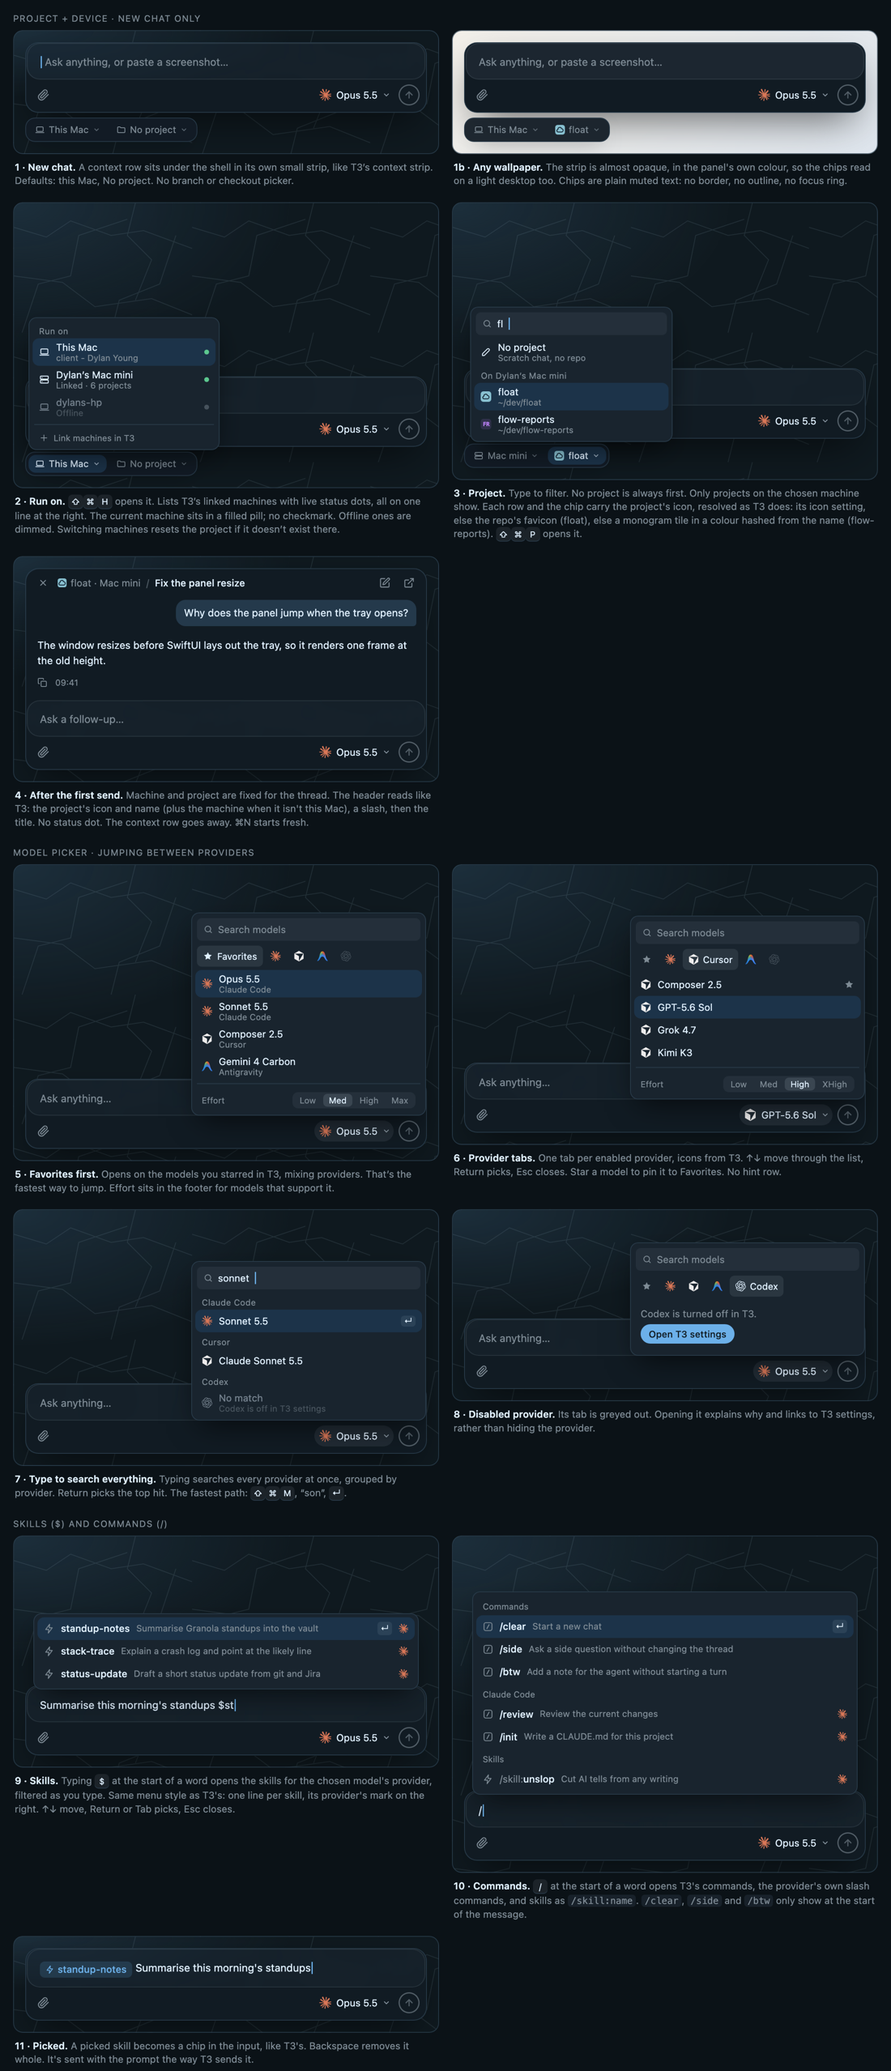
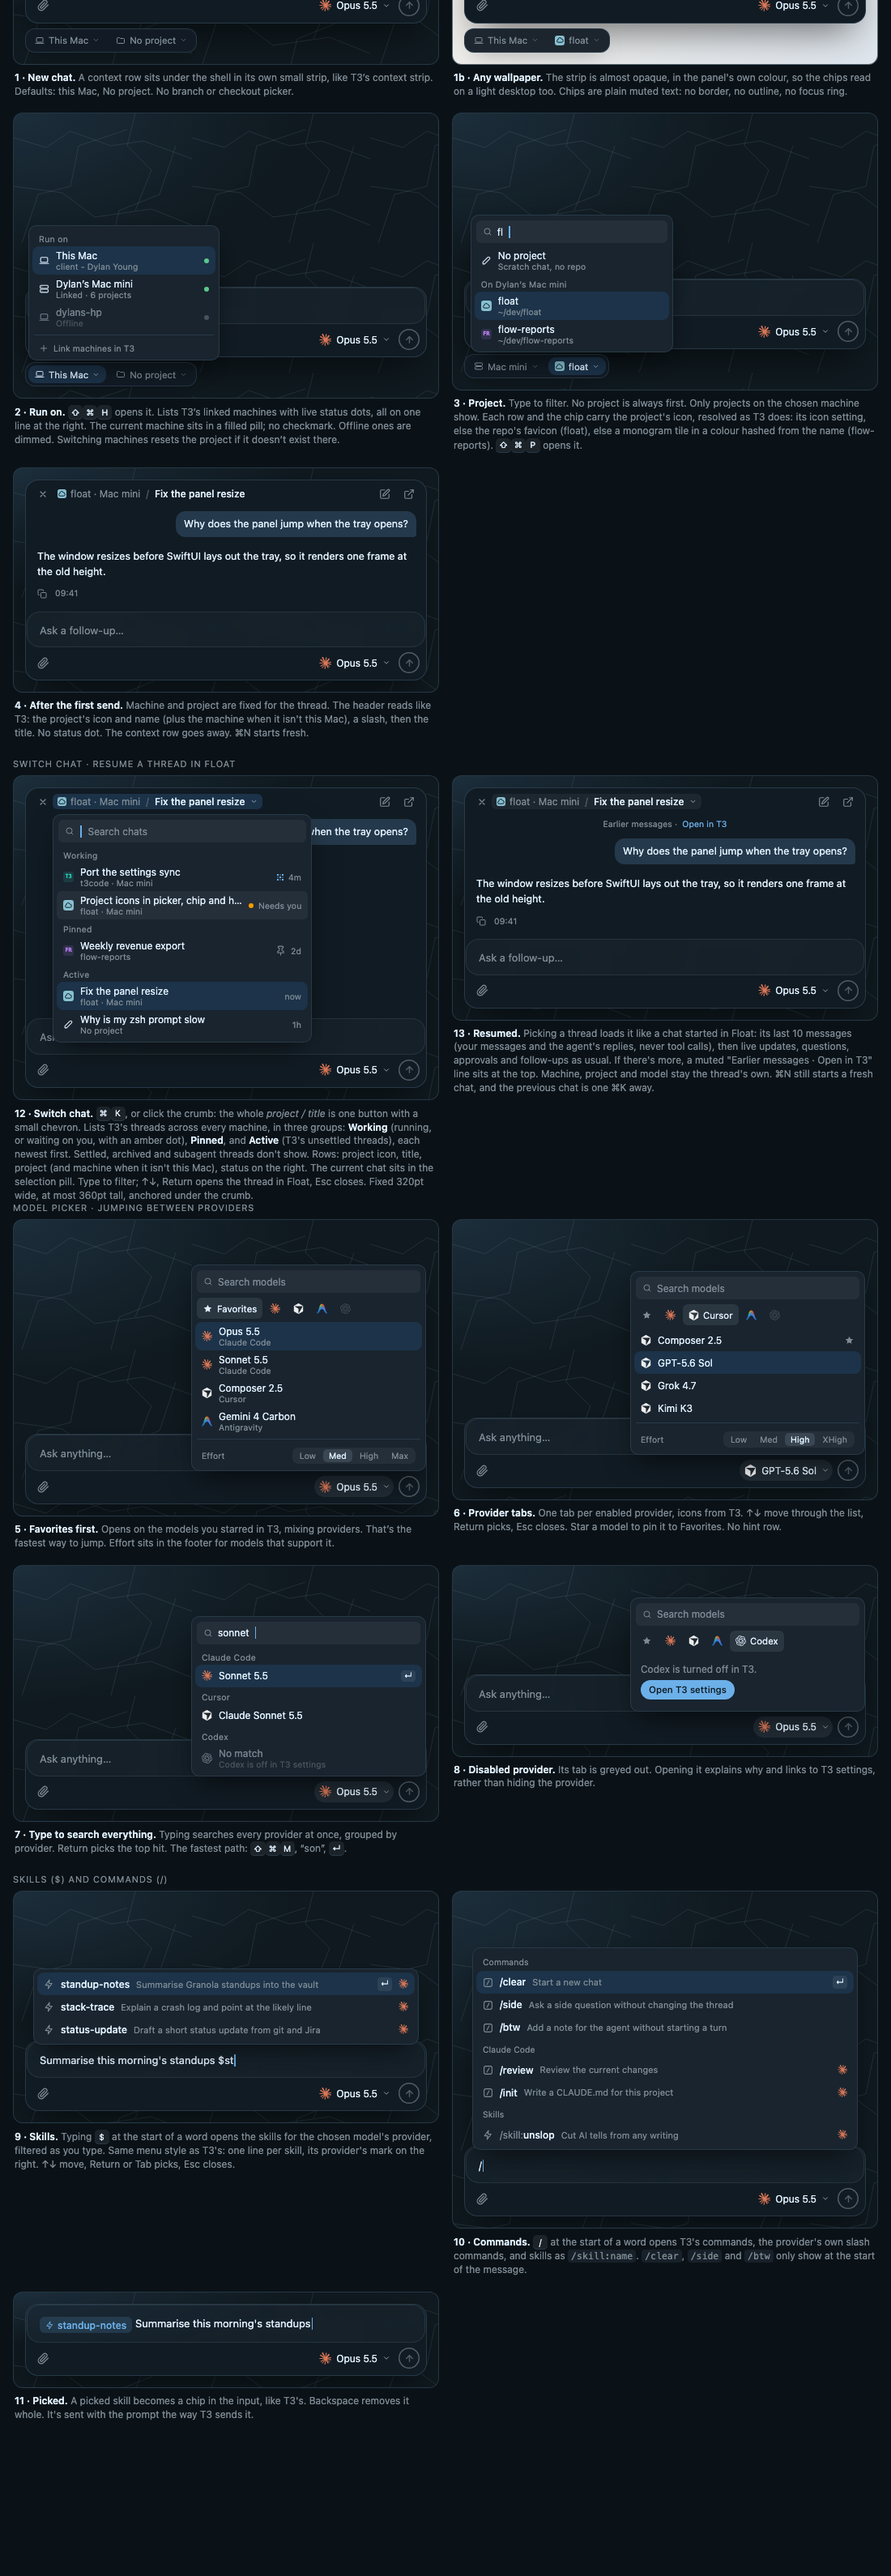
design(switcher): resume pinned, working and active threads from the header crumb

Changed region(s): [[0.0, 0.0, 0.9891, 1.0], [0.4636, 0.6488, 0.9891, 0.9269], [0.68, 0.309, 0.9582, 0.3399]]

diff --git a/design/float-pickers.html b/design/float-pickers.html
@@ -192,6 +192,17 @@ code{font-family:var(--font-mono);font-size:11.5px;background:var(--code-backgro
 .pop .ft{display:flex;align-items:center;gap:6px;padding:6px 8px 4px;font-size:10.5px;color:var(--muted-foreground)}
 .on-dot{width:6px;height:6px;border-radius:50%;background:var(--success);flex:none}
 .on-dot.off{background:var(--muted-foreground)}
+/* Chat switcher: drops from the header crumb, which is a button (hover: text colour at 6%, radius 6, small chevron after the title). */
+.crumb .cbtn{display:inline-flex;align-items:center;gap:7px;min-width:0;padding:2px 6px;margin-left:-6px;border-radius:6px}
+.crumb .cbtn.hv{background:color-mix(in oklab, var(--foreground) 6%, transparent)}
+.crumb .cbtn.on{background:#1c3349}
+.crumb .cbtn .cv{width:9px;height:9px;opacity:.7;flex:none}
+.pop.down{bottom:auto;top:calc(100% + 6px);width:320px;left:-6px}
+.pop .it .tl{display:block;overflow:hidden;text-overflow:ellipsis;white-space:nowrap;max-width:200px}
+.wk{display:inline-grid;grid-template-columns:repeat(3,2px);gap:1px}.wk i{width:2px;height:2px;background:var(--primary);opacity:.35}.wk i.o{opacity:1}
+.amb{width:6px;height:6px;border-radius:50%;background:var(--warning);flex:none}
+.earlier{align-self:center;font-size:10.5px;color:var(--muted-foreground);display:flex;gap:6px;align-items:center}
+.earlier u{text-decoration:none;color:var(--primary)}
 .tabs{display:flex;gap:2px;padding:2px 2px 4px}
 .tab{display:inline-flex;align-items:center;gap:5px;height:26px;padding:0 7px;border-radius:6px;color:var(--muted-foreground);font-size:11.5px}
 .tab svg{width:13px;height:13px}
@@ -242,6 +253,7 @@ code{font-family:var(--font-mono);font-size:11.5px;background:var(--code-backgro
 <svg width="0" height="0" style="position:absolute"><defs>
 <symbol id="p-laptop" viewBox="0 0 24 24" fill="none" stroke="currentColor" stroke-width="2" stroke-linecap="round" stroke-linejoin="round"><rect x="4" y="5" width="16" height="11" rx="2"/><path d="M2 19h20"/></symbol>
 <symbol id="p-server" viewBox="0 0 24 24" fill="none" stroke="currentColor" stroke-width="2" stroke-linecap="round" stroke-linejoin="round"><rect x="3" y="4" width="18" height="7" rx="2"/><rect x="3" y="13" width="18" height="7" rx="2"/><path d="M7 7.5h.01M7 16.5h.01"/></symbol>
+<symbol id="p-pin" viewBox="0 0 24 24" fill="none" stroke="currentColor" stroke-width="2" stroke-linecap="round" stroke-linejoin="round"><path d="M12 17v5"/><path d="M9 10.76a2 2 0 0 1-1.11 1.79l-1.78.9A2 2 0 0 0 5 15.24V16a1 1 0 0 0 1 1h12a1 1 0 0 0 1-1v-.76a2 2 0 0 0-1.11-1.79l-1.78-.9A2 2 0 0 1 15 10.76V7a1 1 0 0 1 1-1 2 2 0 0 0 0-4H8a2 2 0 0 0 0 4 1 1 0 0 1 1 1z"/></symbol>
 <symbol id="p-folder" viewBox="0 0 24 24" fill="none" stroke="currentColor" stroke-width="2" stroke-linecap="round" stroke-linejoin="round"><path d="M3 7a2 2 0 0 1 2-2h4l2 2h8a2 2 0 0 1 2 2v8a2 2 0 0 1-2 2H5a2 2 0 0 1-2-2Z"/></symbol>
 <symbol id="p-scratch" viewBox="0 0 24 24" fill="none" stroke="currentColor" stroke-width="2" stroke-linecap="round" stroke-linejoin="round"><path d="M4 20h4L19 9a2.8 2.8 0 0 0-4-4L4 16Z"/></symbol>
 <symbol id="p-search" viewBox="0 0 24 24" fill="none" stroke="currentColor" stroke-width="2" stroke-linecap="round"><circle cx="11" cy="11" r="7"/><path d="m20 20-3.5-3.5"/></symbol>
@@ -264,6 +276,9 @@ code{font-family:var(--font-mono);font-size:11.5px;background:var(--code-backgro
     <div class="grid" id="g1"></div>
   </div>
   <div>
+    <p class="sec">Switch chat · resume a thread in Float</p>
+    <div class="grid" id="g4"></div>
+
     <p class="sec">Model picker · jumping between providers</p>
     <div class="grid" id="g2"></div>
   </div>
@@ -357,6 +372,28 @@ const offPop=`<div class="pop right" style="min-width:290px">
   <div class="srch">${ic('p-search')}<span>Search models</span></div>
   <div class="tabs"><span class="tab">${ic('p-star')}</span><span class="tab">${ic('g-claude')}</span><span class="tab">${ic('g-cursor')}</span><span class="tab">${ic('g-anti')}</span><span class="tab on">${ic('g-codex')}Codex</span></div>
   <div class="it" style="flex-direction:column;align-items:flex-start;gap:6px;padding:10px 8px"><span style="color:var(--muted-foreground)">Codex is turned off in T3.</span><span class="btn pri" style="margin:0">Open T3 settings</span></div></div>`;
+
+
+const wk=`<span class="wk"><i class="o"></i><i></i><i class="o"></i><i></i><i class="o"></i><i></i><i class="o"></i><i></i><i class="o"></i></span>`;
+const MONO_T3=mono('T3','#2dd4bf');
+const switchPop=`<div class="pop down">
+  <div class="srch">${ic('p-search')}<span class="caret"></span><span style="margin-left:2px">Search chats</span></div>
+  <div class="lab">Working</div>
+  <div class="it">${MONO_T3}<span><span class="tl">Port the settings sync</span><span class="sub">t3code · Mac mini</span></span><span class="r">${wk}4m</span></div>
+  <div class="it hl">${FAV}<span><span class="tl">Project icons in picker, chip and header</span><span class="sub">float · Mac mini</span></span><span class="r"><span class="amb"></span>Needs you</span></div>
+  <div class="lab">Pinned</div>
+  <div class="it">${MONO_FR}<span><span class="tl">Weekly revenue export</span><span class="sub">flow-reports</span></span><span class="r">${ic('p-pin')}2d</span></div>
+  <div class="lab">Active</div>
+  <div class="it sel">${FAV}<span><span class="tl">Fix the panel resize</span><span class="sub">float · Mac mini</span></span><span class="r">now</span></div>
+  <div class="it">${ic('p-scratch')}<span><span class="tl">Why is my zsh prompt slow</span><span class="sub">No project</span></span><span class="r">1h</span></div>
+</div>`;
+const hdr=(btn,pop='')=>`<div class="tray-top"><div class="hdr"><span class="ib close"><svg><use href="#i-x"/></svg></span><div class="crumb" style="position:relative;overflow:visible"><span class="cbtn ${btn}"><span class="pj">${FAV}float · Mac mini</span><span class="sl">/</span><span class="tt">Fix the panel resize</span><svg class="cv"><use href="#p-chev"/></svg></span>${pop}</div><span class="ib"><svg><use href="#i-new"/></svg></span><span class="ib"><svg><use href="#i-open"/></svg></span></div>`;
+document.getElementById('g4').innerHTML=[
+  cell(shell({tray:`${hdr('on',switchPop)}<div class="msgs" style="min-height:250px"><div class="msg-u">Why does the panel jump when the tray opens?</div></div></div>`,input:ph('Ask a follow-up…')}),
+    `<b>12 · Switch chat.</b> <span class="kbd">⌘</span><span class="kbd">K</span>, or click the crumb: the whole <i>project / title</i> is one button with a small chevron. Lists T3's threads across every machine, in three groups: <b>Working</b> (running, or waiting on you, with an amber dot), <b>Pinned</b>, and <b>Active</b> (T3's unsettled threads), each newest first. Settled, archived and subagent threads don't show. Rows: project icon, title, project (and machine when it isn't this Mac), status on the right. The current chat sits in the selection pill. Type to filter; ↑↓, Return opens the thread in Float, Esc closes. Fixed 320pt wide, at most 360pt tall, anchored under the crumb.`),
+  cell(shell({tray:`${hdr('hv')}<div class="msgs"><div class="earlier">Earlier messages · <u>Open in T3</u></div><div class="msg-u">Why does the panel jump when the tray opens?</div><div class="msg-a"><p>The window resizes before SwiftUI lays out the tray, so it renders one frame at the old height.</p><div class="meta"><span class="ib"><svg><use href="#i-copy"/></svg></span>09:41</div></div></div></div>`,input:ph('Ask a follow-up…')}),
+    `<b>13 · Resumed.</b> Picking a thread loads it like a chat started in Float: its last 10 messages (your messages and the agent's replies, never tool calls), then live updates, questions, approvals and follow-ups as usual. If there's more, a muted "Earlier messages · Open in T3" line sits at the top. Machine, project and model stay the thread's own. ⌘N still starts a fresh chat, and the previous chat is one ⌘K away.`),
+].join('');
 
 document.getElementById('g2').innerHTML=[
   cell(shell({input:ph('Ask anything…'),footOpts:{open:true,pop:favPop}}),

diff --git a/design/README.md b/design/README.md
@@ -43,9 +43,10 @@ The colours come from Dylan's nordbones T3 theme. So do the pixel thinking loade
 - **Dragging:** you can drag the window by the header, the footer's empty space, and a thin strip along the top edge of the input (6pt, arrow cursor), which matters in the compact state where there's no header.
 - **Pickers:** the model, project and Run on pickers keep one size and one anchor while open, whatever tab or query is showing, so they never jump. The model picker is a fixed 300×360pt and its bottom-right corner stays pinned above the model button; the list scrolls inside it. The current item sits in a filled pill in nordbones `secondary` (`#1C3349`, radius 8), as T3 marks a selected chip, with no checkmark. Hover and the keyboard highlight use the text colour at 6%. Trailing status dots line up in one column. With the search field focused, ↑↓ move the highlight through the list, Return picks the highlighted item, and Esc closes the picker (Esc closes every Float menu and picker before it hides Float). No hint rows and no ⌘1–9 tab shortcuts; click a tab to switch. In the model picker, clicking an effort segment sets that model's effort. The effort row always starts with its "Effort" label, and its segments fit inside the picker without clipping, even for long values like "Ultrathink". The model picker has no "Use T3 default" row: you always pick a specific model.
 - **Project icons:** every place Float shows a project (the header crumb, the Project chip in the context row, and each row of the project picker) shows its icon exactly as T3's `ProjectFavicon` resolves it (`apps/web/src/components/ProjectFavicon.tsx`). First the project's own icon setting from T3: a monogram (its text and colour), an emoji, or a lucide icon (its name and colour). Then the checkout's favicon, found the way T3's server finds it, for projects on other machines too. Otherwise a monogram tile built from the project's name with T3's `deriveProjectIdentity` (`apps/web/src/projectIdentity.ts`): two letters, in a colour hashed from the name. A monogram tile is the colour's text in a bold monospaced face on the same colour at 14%, with a 25% corner radius; colours are T3's dark-mode shades (Tailwind `-400`). Favicons get the same 25% radius. Sizes: 11pt in the header, 12pt in the chip, 13pt in picker rows. The plain folder is gone; "No project" keeps its pencil. Icons load without blocking the picker and are cached per machine and checkout, so reopening the picker never flashes. See `design/pickers.png` states 1b, 3 and 4.
+- **Switch chat:** ⌘K, or a click on the header crumb, opens the chat switcher (`design/pickers.png` states 12 and 13). The crumb (`<project> / <title>` plus a small chevron) is one button: hover is the text colour at 6% with a radius of 6, and it uses the selection pill while open. The switcher drops from the crumb, 320pt wide and at most 360pt tall, and follows the picker rules (fixed size and anchor, search field focused, ↑↓, Return, Esc). In the compact state, where there's no header, ⌘K opens it above the input. It lists T3's threads from every connected machine in three groups, each newest first, and a thread shows only once, in the first group it fits: **Working** (running, starting or queued: the mini pixel grid and elapsed time; waiting on you: an amber dot and "Needs you"), **Pinned** (T3's `pinnedAt`), and **Active** (T3's unsettled threads, `settledAt` empty). Settled, archived, snoozed and subagent threads never show. Rows show the project icon, the title, the project (plus the machine when it isn't this Mac, or "No project"), and the status or age on the right. The current chat sits in the selection pill. Picking a thread resumes it in Float as if it had started there: its last 10 messages (your messages and the replies, never tool calls), then live streaming, the thinking loader, questions, approvals and follow-ups. Its machine, project and model stay the thread's own. When there's older history, a muted "Earlier messages · Open in T3" line sits at the top of the tray. ⌘N still starts a fresh chat.
 - **Context row:** for new chats, the Run on and Project chips sit in a small strip under the panel, like T3's context strip. It hugs its chips (3pt padding, 4pt between chips), 6pt below the panel, with a 12pt radius. Its fill is the panel's colour at about 94% with a light blur, plus the panel's hairline border and a soft shadow, so it reads on any wallpaper, light or dark. Chips are a 12pt icon, muted 11.5pt regular text and a small chevron, 22pt tall with a 9pt radius. No border, no outline, no text effects, no focus ring. Hover is the text colour at 6%. An open chip uses the selection pill (`#1C3349`) with text in the text colour. See `design/pickers.png` states 1 and 1b.
 - **Disabled buttons:** a disabled button is always readable. A disabled primary button (for example Send answer before an option is picked, or Allow while a decision is in flight) switches to the ghost style: no fill, the panel's hairline, label in the muted colour at full opacity. Never accent-coloured text on a dimmed accent fill. It becomes the filled accent button the moment it's enabled.
 - **No focus rings:** Float's own buttons, rows and chips never show macOS's blue focus ring. Keyboard focus shows the same way as hover: the text colour at 6%. The only visible focus is the caret in a text field.
 - **Scroll bars:** overlay knobs only, never a track, everywhere (conversation, input, pickers, code blocks).
-- **Keyboard:** ⌥Space toggles Float, Esc hides it (or closes an open picker first), Return sends, ⇧Return adds a new line, the standard editing keys work in the input (⌘A, ⌘C, ⌘X, ⌘V, ⌘Z, ⇧⌘Z), ⌘V also pastes images, ⌘N starts a new chat, ⇧⌘M opens the model picker, ⇧⌘P the project picker, ⇧⌘H the Run on picker, ⌘. stops a run.
+- **Keyboard:** ⌥Space toggles Float, Esc hides it (or closes an open picker first), Return sends, ⇧Return adds a new line, the standard editing keys work in the input (⌘A, ⌘C, ⌘X, ⌘V, ⌘Z, ⇧⌘Z), ⌘V also pastes images, ⌘N starts a new chat, ⌘K opens the chat switcher, ⇧⌘M opens the model picker, ⇧⌘P the project picker, ⇧⌘H the Run on picker, ⌘. stops a run.
 - **Shared centre lines:** the header's × sits on the same vertical centre line as the footer's paperclip, and Open in T3 on the same line as the send ring, 21pt in from each inner edge of the shell.
